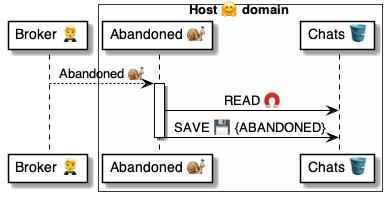
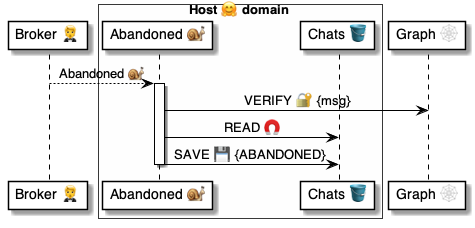
.

diff --git a/4 ⚙ Solution/41 🎭 Domain Roles/Hosts 🤗/🤗📨 Host msgs/Abandoned 🤵🐌🤗/🤗 Abandoned 📃 handler.md b/4 ⚙ Solution/41 🎭 Domain Roles/Hosts 🤗/🤗📨 Host msgs/Abandoned 🤵🐌🤗/🤗 Abandoned 📃 handler.md
@@ -1,0 +1,42 @@
+# 🤗 Abandoned@Host 📃 handler
+
+> About
+* [Script 📃](<../../../../35 💬 Chats/Scripts 📃/Script 📃.md>) that implements the [`Abandoned@Host` 🐌 msg](<🤗 Abandoned 🐌 msg.md>)
+
+<br/>
+
+## Diagram
+
+![alt text](<🤗 Abandoned ⚙ uml.png>)
+
+<br/>
+
+## Handler
+
+```yaml
+📃 Abandoned@Host:
+
+# Assert the message
+- ASSERT|$.Msg:
+    AllOf: Chat
+    UUIDs: Chat
+
+# Verify the message
+- VERIFY|$.Msg
+
+# Read the chat
+- READ >> $chat:
+    Set: Host.Chats
+    Key: 
+        Chat: $.Msg.Chat
+        Broker: $.Msg.From
+
+# Mark the chat as abandoned
+- SAVE|$chat:
+    .State: ABANDONED
+```
+
+Uses ||
+|-|-
+| [Commands ⌘](<../../../../35 💬 Chats/Scripts 📃/Command ⌘.md>) | [`ASSERT`](<../../../../37 Scripts 📃/📃 Commands ⌘/⌘ for holders 🧠/ASSERT 🚦/🚦 ASSERT ⌘ cmd.md>) [`READ`](<../../../../37 Scripts 📃/📃 Commands ⌘/⌘ for datasets 🪣/READ 🧲/🧲 READ ⌘ cmd.md>) [`SAVE`](<../../../../37 Scripts 📃/📃 Commands ⌘/⌘ for datasets 🪣/SAVE 💾/💾 SAVE ⌘ cmd.md>) [`VERIFY`](<../../../../37 Scripts 📃/📃 Commands ⌘/⌘ for messages 📨/VERIFY 🔐/🔐 VERIFY ⌘ cmd.md>)
+| [Datasets 🪣](<../../../../30 🧩 Data/Datasets 🪣/🪣 Dataset.md>) | [`Host.Chats`](<../../🤗🪣 Host tables/Chats 💬 table/🪣 Chats/🤗 Host.Chats 🪣 table.md>)

diff --git a/4 ⚙ Solution/41 🎭 Domain Roles/Hosts 🤗/🤗📨 Host msgs/Home 🤵🐌🤗/🤗 Home 📃 handler.md b/4 ⚙ Solution/41 🎭 Domain Roles/Hosts 🤗/🤗📨 Host msgs/Home 🤵🐌🤗/🤗 Home 📃 handler.md
@@ -1,6 +1,7 @@
-# 🤗📃 Home
+# 🤗 Home@Host 📃 handler
 
-[Script 📃](<../../../../35 💬 Chats/Scripts 📃/Script 📃.md>) that implements the [`Home@Host` 🐌 msg](<🤗 Home 🐌 msg.md>).
+> About
+* [Script 📃](<../../../../35 💬 Chats/Scripts 📃/Script 📃.md>) that implements the [`Home@Host` 🐌 msg](<🤗 Home 🐌 msg.md>).
 
 
 ## Script
@@ -8,13 +9,23 @@
 ```yaml
 📃 Home@Host: 
 
-# Get the Chat
+# Verify the message
+- VERIFY|$.Msg
+
+# Assert the message
+- ASSERT|$.Msg:
+    AllOf: Chat
+    UUIDs: Chat
+
+# Assert the Chat exists for the Broker
 - READ >> $chat:
     Set: Host.Chats
-    Key: $.Msg.Chat
+    Key: 
+        Chat: $.Msg.Chat
+        Broker: $.Msg.From
 
-# Start a Chat for the locator
-- TALK|$.Msg.Chat|$chat.Locator
+# Start the default talker
+- TALK
 ```
 
 Uses||

diff --git a/4 ⚙ Solution/37 Scripts 📃/📃 Functions 🐍/🐍 System 🔩 functions/IsEnum ⓕ.md b/4 ⚙ Solution/37 Scripts 📃/📃 Functions 🐍/🐍 System 🔩 functions/IsEnum ⓕ.md
@@ -15,3 +15,25 @@
 
     ---
     <br/>
+
+1. **What are examples of .IsEnum usage on a value [Holder 🧠](<../../../35 💬 Chats/Scripts 📃/Holder 🧠.md>)?**
+
+    |||
+    |-|-
+    | Success | `A` `A,B` 
+    | Failure | `1` `1,2` `{A:1}` `True`
+
+    ---
+    <br/>
+
+1. **What are examples of .IsEnum usage on a [Set 🧠 holder](<../../📃 Holders 🧠/Input holders 📥/🧠 Set holders.md>)?**
+
+    |Input #1|Input 2|Result
+    |-|-|-
+    | `{A:1}`|`A`|False
+    | `{A:B}`|`A`|True
+    | `{A:B,C:3}`|`A,C`|False
+    | `{A:B,C:D}`|`A,C`|True
+
+    ---
+    <br/>

diff --git a/4 ⚙ Solution/41 🎭 Domain Roles/Hosts 🤗/🤗📨 Host msgs/Home 🤵🐌🤗/🤗 Home 🐌 msg.md b/4 ⚙ Solution/41 🎭 Domain Roles/Hosts 🤗/🤗📨 Host msgs/Home 🤵🐌🤗/🤗 Home 🐌 msg.md
@@ -1,9 +1,7 @@
-# 🧑🦰🐌🤗 Home @ Host
+# 🤵🐌🤗 Home@Host
 
-> Implementations
+> About
 * Implemented by the [`Home` 📃 script](<🤗 Home 📃 handler.md>)
-
-> Purpose
 * Shows the main menu of the [Host 🤗 domain](<../../🤗 Host role/🤗🎭 Host role.md>).
 
 > Used by
